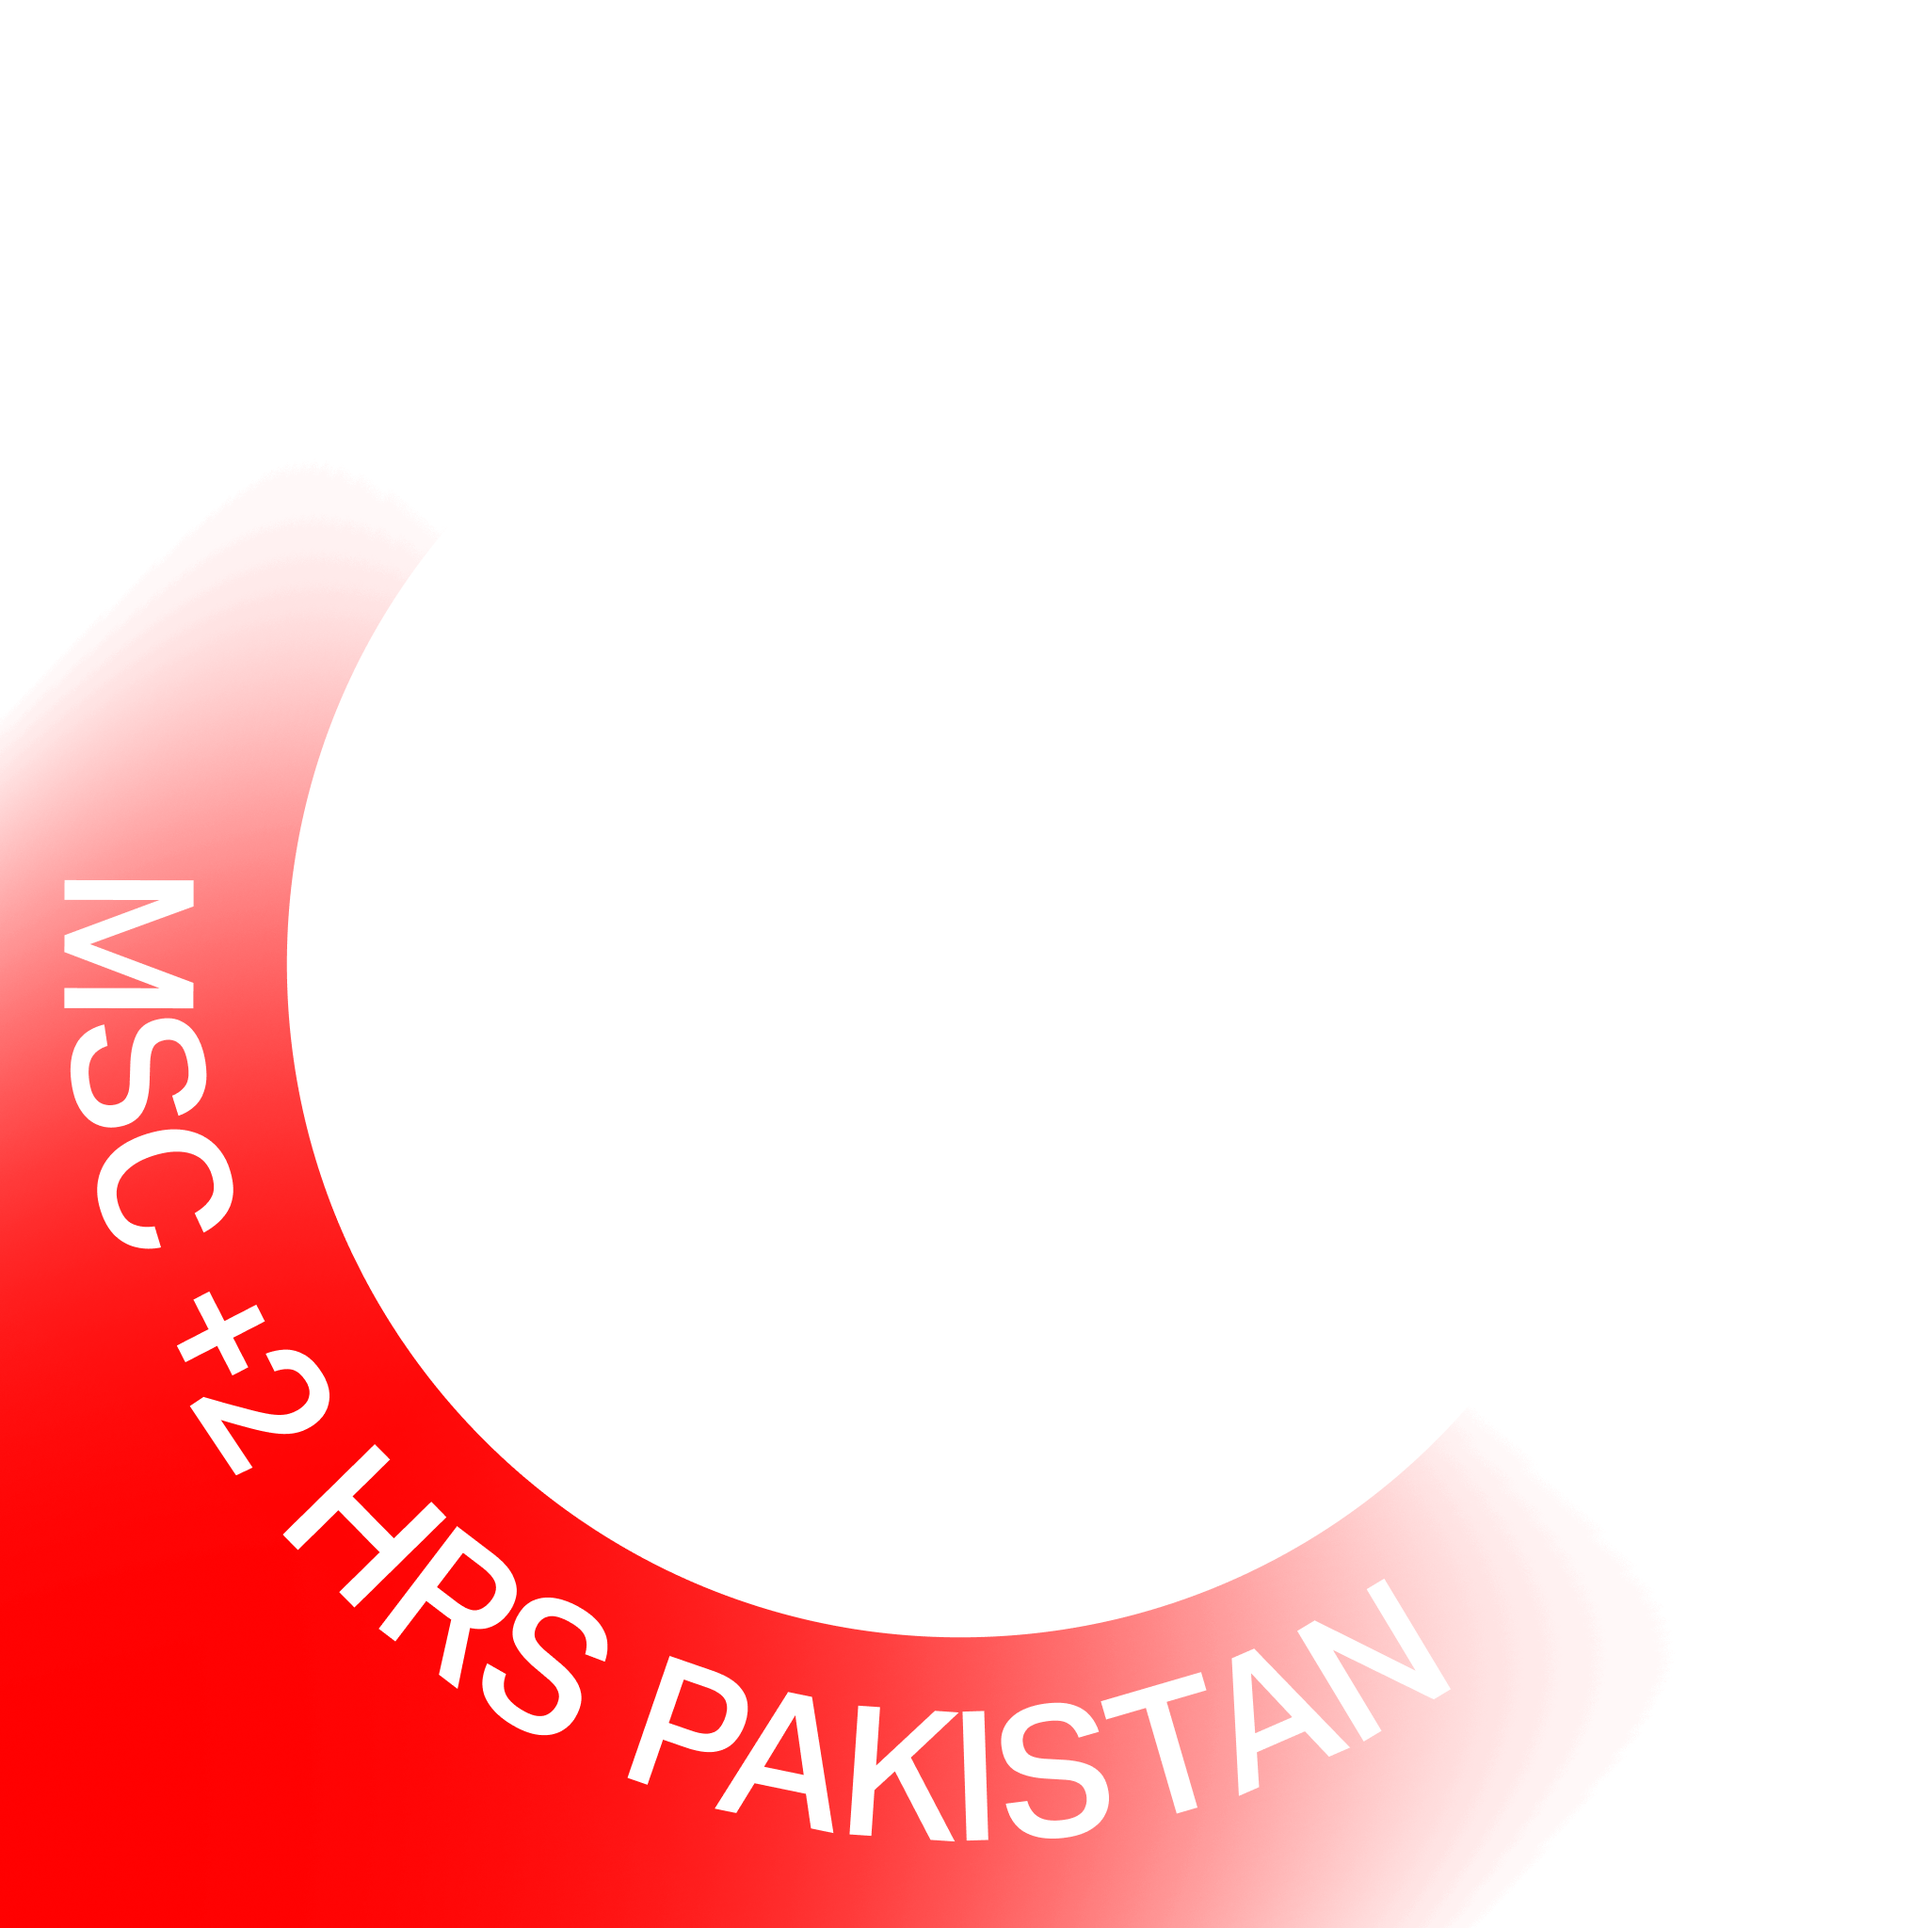
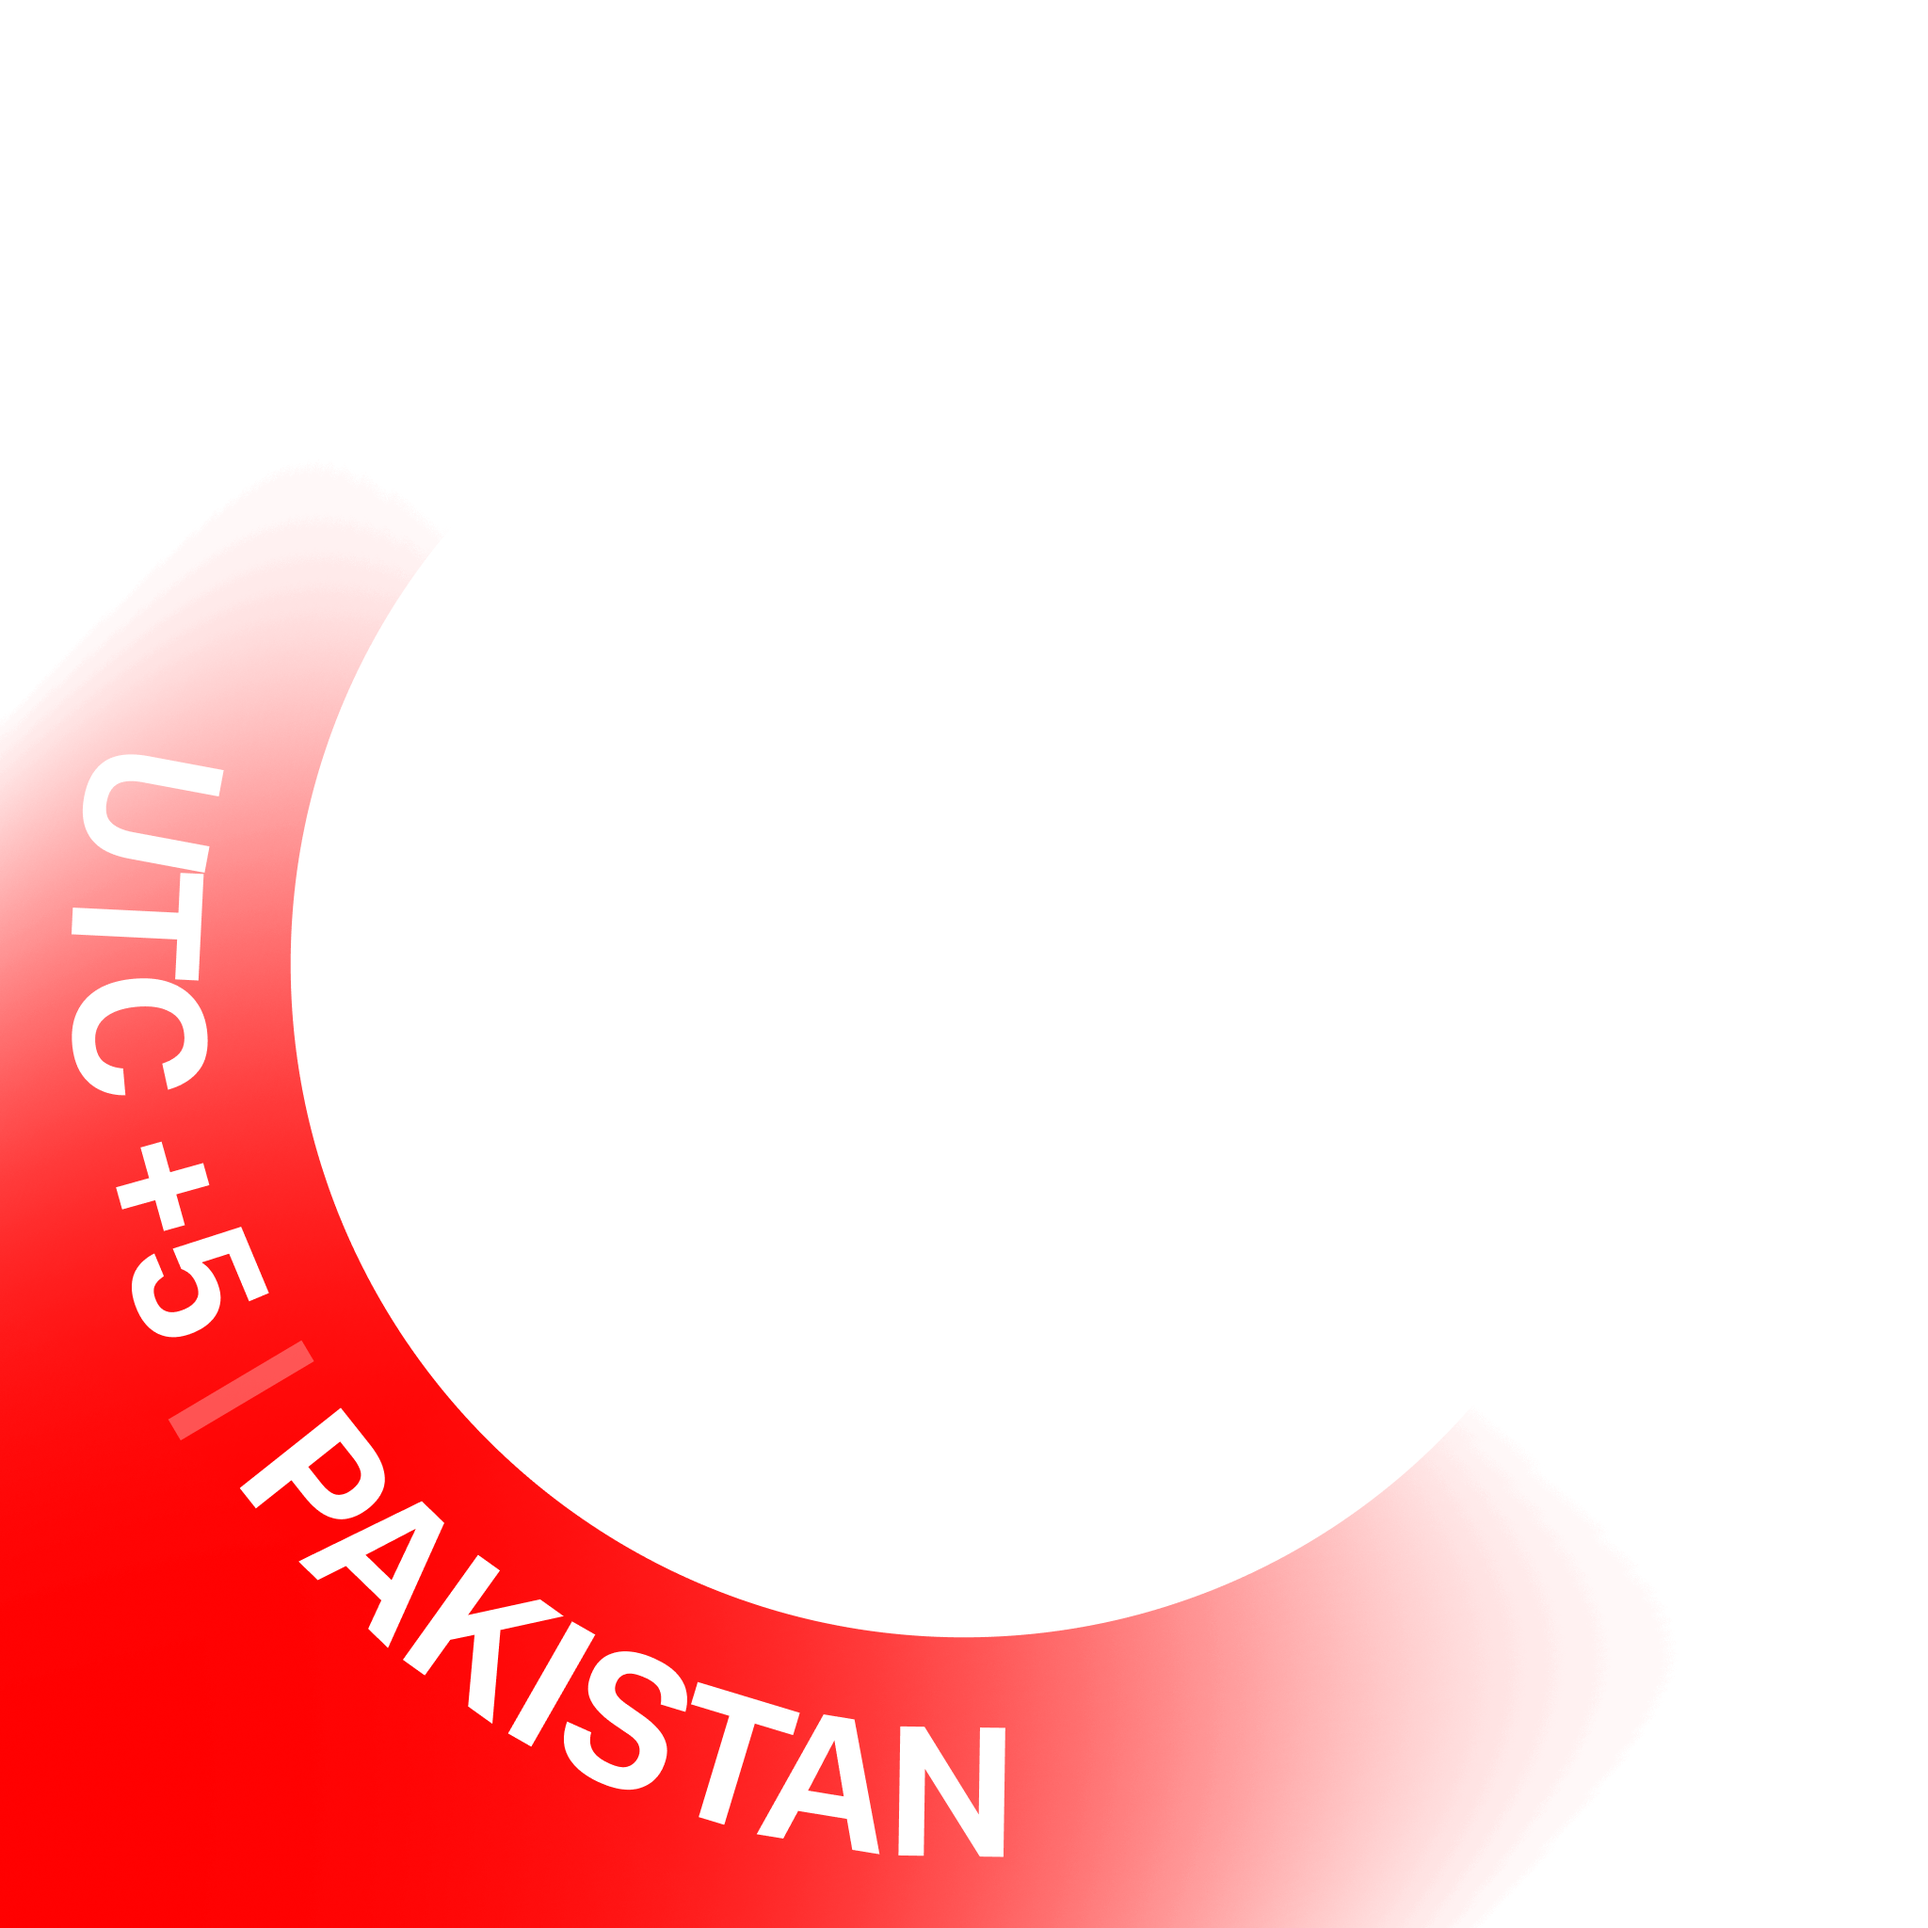
new time zons

Changed region(s): [[0.0312, 0.375, 0.75, 0.9688]]

diff --git a/bot.py b/bot.py
@@ -33,9 +33,39 @@ main_menu_options = [
 ]
 
 timezone_options = [
-    [InlineKeyboardButton("🌎 LATAM (MSK –8)", callback_data='business_trip_latam')],
-    [InlineKeyboardButton("🌍 AFRICA (MSK –3)", callback_data='business_trip_africa')],
-    [InlineKeyboardButton("🇵🇰 PAKISTAN (MSK +2)", callback_data='business_trip_pakistan')],
+    [
+        InlineKeyboardButton("🇦🇴 AGO", callback_data='business_trip_Angola'),
+        InlineKeyboardButton("🇦🇿 AZE", callback_data='business_trip_Azerbaijan'),
+        InlineKeyboardButton("🇧🇴 BOL", callback_data='business_trip_Bolivia'),
+        InlineKeyboardButton("🇨🇲 CMR", callback_data='business_trip_Cameroon')
+    ],
+    [
+        InlineKeyboardButton("🇨🇴 COL", callback_data='business_trip_Colombia'),
+        InlineKeyboardButton("🇨🇮 CIV", callback_data='business_trip_Côte d\'Ivoire'),
+        InlineKeyboardButton("🇪🇹 ETH", callback_data='business_trip_Ethiopia'),
+        InlineKeyboardButton("🇬🇭 GHA", callback_data='business_trip_Ghana')
+    ],
+    [
+        InlineKeyboardButton("🇬🇹 GTM", callback_data='business_trip_Guatemala'),
+        InlineKeyboardButton("🇲🇦 MAR", callback_data='business_trip_Morocco'),
+        InlineKeyboardButton("🇲🇿 MOZ", callback_data='business_trip_Mozambique'),
+        InlineKeyboardButton("🇳🇦 NAM", callback_data='business_trip_Namibia')
+    ],
+    [
+        InlineKeyboardButton("🇳🇵 NPL", callback_data='business_trip_Nepal'),
+        InlineKeyboardButton("🇴🇲 OMN", callback_data='business_trip_Oman'),
+        InlineKeyboardButton("🇵🇰 PAK", callback_data='business_trip_Pakistan'),
+        InlineKeyboardButton("🇵🇪 PER", callback_data='business_trip_Peru')
+    ],
+    [
+        InlineKeyboardButton("🇨🇩 COD", callback_data='business_trip_Congo'),
+        InlineKeyboardButton("🇸🇳 SEN", callback_data='business_trip_Senegal'),
+        InlineKeyboardButton("🇹🇷 TUR", callback_data='business_trip_Türkiye'),
+        InlineKeyboardButton("🇦🇪 UAE", callback_data='business_trip_UAE')
+    ],
+    [
+        InlineKeyboardButton("🇿🇲 ZMB", callback_data='business_trip_Zambia')
+    ]
 ]
 
 async def start(update: Update, context: ContextTypes.DEFAULT_TYPE):
